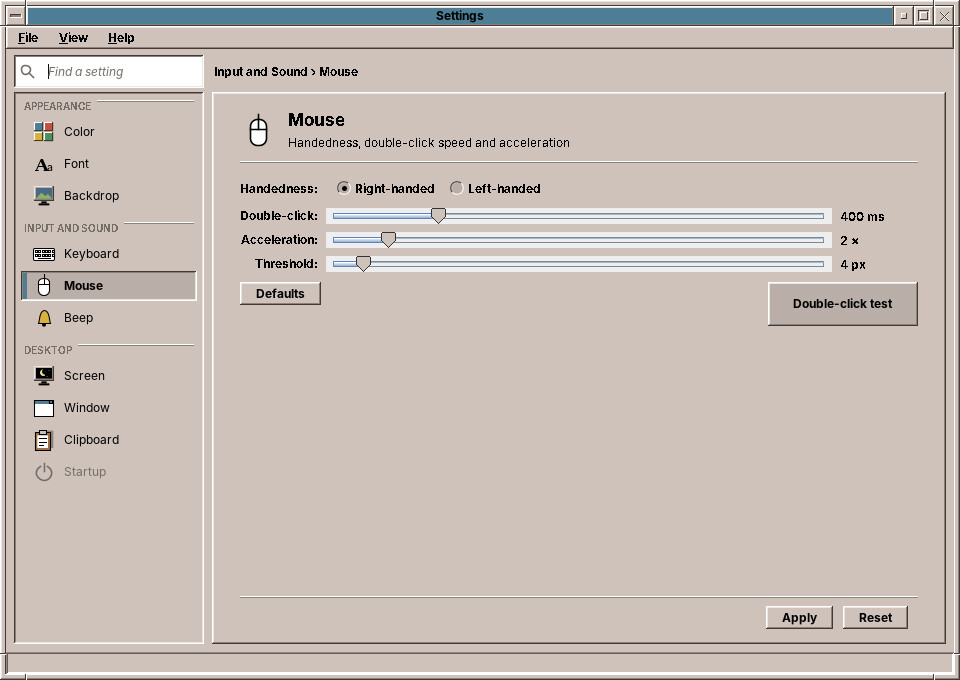
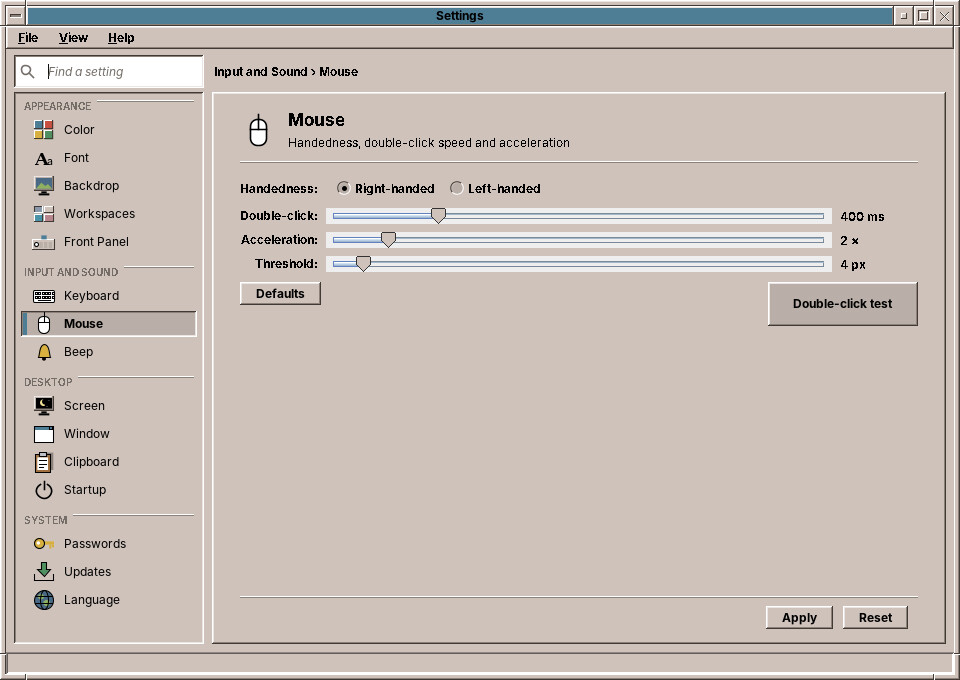
User's Handbook: the new Settings pages, and screenshots of them
Chapter 35 gets the Startup page; new chapters 37 (Workspaces and Front
Panel) and 38 (Passwords, Updates and Language). Chapter 30's table, the
session chapter's autostart, the settings files of chapter 56, the
cross-references in 22, 24, 25, 52 and 58 and appendix E follow. The
style scene shoots the new pages; shoot.sh starts a session bus and an
unlocked login keyring with a few demo passwords, so that the Passwords
page has something to show. README lists the Settings controls.

Claude-Session: https://claude.ai/code/session_01QrCZjM4my3MCn35am9WSxs

Changed region(s): [[0.0, 0.1853, 0.2188, 0.8956]]

diff --git a/docs/handbook/chapters/30-settings.md b/docs/handbook/chapters/30-settings.md
@@ -1,6 +1,6 @@
 # 30. Settings
 
-**Settings** is where you make the desktop your own: its colours, the size of its text, the picture behind the windows, how the keyboard, the mouse and the windows behave, the sound of the beep, the screen saver and the clipboard. It grew out of CDE's Style Manager, and it can still look like it (see *The compact view* below).
+**Settings** is where you make the desktop your own: its colours, the size of its text, the picture behind the windows, the names of the workspaces and the Front Panel, how the keyboard, the mouse and the windows behave, the sound of the beep, the screen saver, the clipboard and what starts at login, and, for the system, the keyring, the updates, the language and the time zone. It grew out of CDE's Style Manager, and it can still look like it (see *The compact view* below).
 
 ## Opening it
 
@@ -19,15 +19,20 @@ On the left, the controls are grouped by what they set. Click one, or move throu
 | Appearance | **Color** | The colour palette of the desktop and the icon theme | 31 |
 | | **Font** | The size of the text | 35 |
 | | **Backdrop** | The pattern, picture or colour behind the windows | 32 |
+| | **Workspaces** | The names of the four workspaces | 37 |
+| | **Front Panel** | The clock and the status cells | 37 |
 | Input and Sound | **Keyboard** | Key repeat and key click | 33 |
 | | **Mouse** | Left or right hand, double-click speed, acceleration | 33 |
 | | **Beep** | Volume, tone and length of the beep | 33 |
 | Desktop | **Screen** | Screen saver and screen lock | 34 |
 | | **Window** | How windows get the focus, come to the front and move | 35 |
 | | **Clipboard** | The clipboard history, and copies that outlive their program | 36 |
-| | **Startup** | What the session restores at login (planned) | 35 |
+| | **Startup** | Programs and desktop services started at login | 35 |
+| System | **Passwords** | The login keyring: lock, unlock, change its password | 38 |
+| | **Updates** | Automatic security updates, the updates waiting | 38 |
+| | **Language** | The language of the desktop and the time zone | 38 |
 
-*Startup* is grey: amadeOS does not have it yet.
+The pages of the *System* group change things for the whole computer or your keyring; some of them ask for the administrator's password on **Apply**.
 
 ## Apply and Reset
 
@@ -68,4 +73,4 @@ In that window, **OK** saves, applies and closes; **Apply** saves and applies an
     CDE's Style Manager, `dtstyle`, was a row of buttons, each opening a small window. That worked for a handful of controls; amadeOS has more to set, so the sidebar groups them and a search finds them. The compact view keeps the CDE row for those who prefer it.
 
 ??? hood "Under the hood"
-    Settings writes small text files to `~/.config/amadeos/`, one per control: `theme.conf` and `icon_theme.conf` (Color), `font.conf` (Font), `wallpaper.conf` (Backdrop), `input.conf` (Keyboard, Mouse and Beep), `screen.conf` (Screen), `window.conf` (Window) and `clipboard.conf` (Clipboard); its own view is kept in `settings.conf`. The desktop and the amadeOS applications watch these files, so a change reaches them at once. Chapter 56 lists all settings files.
+    Settings writes small text files to `~/.config/amadeos/`, one per control: `theme.conf` and `icon_theme.conf` (Color), `font.conf` (Font), `wallpaper.conf` (Backdrop), `input.conf` (Keyboard, Mouse and Beep), `screen.conf` (Screen), `window.conf` (Window), `clipboard.conf` (Clipboard), `workspaces.conf` (Workspaces), `panel.conf` (Front Panel), `startup.conf` (Startup) and `locale.conf` (Language); the programs started at login are in `~/.config/autostart/`; its own view is kept in `settings.conf`. The desktop and the amadeOS applications watch these files, so a change reaches them at once. Chapter 56 lists all settings files.

diff --git a/docs/handbook/chapters/55-session.md b/docs/handbook/chapters/55-session.md
@@ -7,12 +7,14 @@ The **session** is everything that runs between your login and your logout: the 
 After the greeter has checked your password (chapter 20), the session starts in this order:
 
 1. The **window manager**, which draws the window frames. If it ever crashes, the session starts it again, and your windows stay open.
-2. The **autostart scripts**, all at once: the keyboard and mouse settings, the password window of chapter 50, the clipboard manager, the screen saver, and your own.
+2. The **autostart scripts**, all at once: the keyboard and mouse settings, the password window of chapter 50, the clipboard manager, the screen saver, and your own, except those you switched off in *Settings → Startup*.
 3. The **Front Panel**. The session lasts as long as the panel: when you log out with *EXIT* (chapter 26), the panel ends, and the session with it.
 
 ## Starting programs at login
 
-Programs that should start at every login go into your own autostart folder, `~/.config/amadeos/autostart.d`. Each entry there is a small script, and every script that is executable runs at login, in the background.
+The simple way is the *Startup* page of Settings (chapter 35): **Add…** a program and click **Apply**. It keeps a desktop entry for each program in `~/.config/autostart/`, and the session starts them after the autostart scripts.
+
+For anything a desktop entry cannot do, such as waiting a moment or passing options, write a script into your own autostart folder, `~/.config/amadeos/autostart.d`. Every script there that is executable runs at login, in the background.
 
 For example, to open the Mailer at every login:
 
@@ -32,7 +34,7 @@ The `sleep 5` lets the panel appear first. To stop the program from starting, de
     The scripts run in the order of their names, but they do not wait for each other. A two-digit number at the front, as in `60-mailer`, keeps them sorted.
 
 !!! planned "Planned"
-    The *Startup* page of Settings (chapter 35) will manage the autostart and whether the session opens the windows of your last session again.
+    Opening the windows of your last session again at login (chapter 35).
 
 ## The session's settings
 
@@ -66,4 +68,4 @@ A single user can choose another one for themselves with `AUTOSTART_APP` in thei
     Today the CDE Front Panel is the only panel of amadeOS. The way to replace it is there so that other desktops can follow without changing the rest of the system.
 
 ??? hood "Under the hood"
-    The session is the shell script `/usr/bin/amadeos-session`; the greeter starts it as you, and it is also registered as `x-session-manager`, so `startx` starts the desktop too. The system's autostart scripts are in `/etc/amadeos/autostart.d`: `10-amadeos-input`, `30-amadeos-polkit-agent`, `40-amadeos-clipboard` and `50-amadeos-screen`. The language chosen at login is written to `~/.config/amadeos/locale.conf`.
+    The session is the shell script `/usr/bin/amadeos-session`; the greeter starts it as you, and it is also registered as `x-session-manager`, so `startx` starts the desktop too. The system's autostart scripts are in `/etc/amadeos/autostart.d`: `10-amadeos-input`, `30-amadeos-polkit-agent`, `40-amadeos-clipboard` and `50-amadeos-screen`; those named in `disabled=` of `~/.config/amadeos/startup.conf` are skipped. Afterwards `amadeos-session autostart` starts the desktop entries of `~/.config/autostart/`. The language chosen at login is written to `~/.config/amadeos/locale.conf`.

diff --git a/docs/handbook/chapters/38-passwords-updates-language.md b/docs/handbook/chapters/38-passwords-updates-language.md
@@ -1,0 +1,41 @@
+# 38. Passwords, Updates and Language
+
+The *System* group of Settings has the settings that reach below the desktop: the keyring with your passwords, the updates of the system, and the language and time zone.
+
+## Passwords
+
+![The Passwords page](images/38/settings-passwords.jpg)
+
+Programs such as the Mailer keep their passwords in your **login keyring** (chapter 58). The page shows whether the keyring is **unlocked** or **locked**, and how many passwords and keys it holds.
+
+| Button | What it does |
+|---|---|
+| **Lock Now** | Locks the keyring. Programs can no longer read their passwords; the next one that needs a password asks you again. |
+| **Unlock…** | Asks for the keyring's password and unlocks it. |
+| **Change Password…** | Asks for the current password and a new one, twice. |
+
+The login screen unlocks the keyring with your login password, as long as both passwords are the same. When you change your login password, change the keyring's to the same one here; otherwise the keyring stays locked after the next login, and you unlock it on this page.
+
+If the page says that no keyring is running, the session was started without GNOME Keyring; programs then ask for their passwords each time.
+
+## Updates
+
+![The Updates page](images/38/settings-updates.jpg)
+
+**Install security updates automatically** is the same switch as *Software → Settings…* (chapter 52): turned on, amadeOS installs security updates once a day in the background, and other updates wait for you. Clicking **Apply** after changing it asks for the administrator's password.
+
+Below, the page shows when the package lists were last checked and how many updates are waiting, and how many of them are security updates. **Open Software…** opens Software at its *Updates* tab, where you install them.
+
+## Language
+
+![The Language page](images/38/settings-language.jpg)
+
+**Language of the desktop** is the language of the menus and windows: English, Deutsch, Français, Español or Italiano. It is the same choice as the language button of the Front Panel and the login screen (chapter 25). Programs started after **Apply** speak the new language; the Front Panel, the window manager and the terminals follow at the next login.
+
+**Time zone** sets the time zone of the computer's clock. The time zone holds for all users of the computer, so **Apply** asks for the administrator's password.
+
+!!! planned "Planned: formats of their own"
+    Dates, times and numbers follow the language of the desktop. Choosing their format separately, for example English texts with German dates, is planned.
+
+??? hood "Under the hood"
+    The Passwords page talks to the keyring over the freedesktop.org Secret Service on the session bus; locking and unlocking use GNOME Keyring's own interface for its master password. The Updates page reads the same state as the updates cell and writes the automatic setting through `/usr/libexec/amadeos-packages` and `pkexec`. The language is written to `~/.config/amadeos/locale.conf`; the time zone is set with `timedatectl set-timezone`, which polkit allows to administrators.

diff --git a/README.md b/README.md
@@ -87,7 +87,7 @@ settings). This repository holds the live image: its package list and configurat
 | **Front panel** | A CDE-style dock with clock, calendar, workspace switcher and drawers that list installed applications from their `.desktop` files, among them a Games drawer with the amade games (Mines, Solitaire, Paddle, ..., Town). The Help drawer opens the amadeOS User's Handbook in Firefox. |
 | **Logs** | One log per application in `~/.cache/amadeos/logs` (`firefox-esr.log`, `amade-files.log`, ...), written by the panel when it starts a program, next to `session.log` and `wm.log` from `amadeos-session`. *Session Diagnostics & Logs* in the Tools drawer (the program `amadeos-logviewer`) shows one of them at a time, chosen from a list, with the display manager's logs from `/var/log` and the system journal of this boot (the live user is in `systemd-journal`); *Follow* reloads every two seconds. |
 | **Language** | English, Deutsch, Français, Español, Italiano. Chosen in the login greeter (*Language*, preselected with the user's last choice) for the whole session, or with the language button under the lock in the front panel. Both write `~/.config/amadeos/locale.conf`; applications built on amade-commons start in that language, the panel and terminals follow at the next login (`LANG`). An application's own *Settings* can override it. |
-| **Settings** (`settings`, formerly the Style Manager) | The controls of CDE's dtstyle in one window with a sidebar and a search, or as CDE's compact row (View > Compact). Color (palette and icon theme), Font, Backdrop, Keyboard, Mouse, Beep, Screen, Window and Clipboard work; Startup is shown but not yet available. |
+| **Settings** (`settings`, formerly the Style Manager) | The controls of CDE's dtstyle in one window with a sidebar and a search, or as CDE's compact row (View > Compact). Color (palette and icon theme), Font, Backdrop, Workspaces (names), Front Panel (clock, status cells), Keyboard, Mouse, Beep, Screen, Window, Clipboard, Startup (programs in `~/.config/autostart`, optional desktop services), Passwords (login keyring), Updates and Language (with the time zone). |
 | **Icons** | The NsCDE icon theme is the default (package `nscde-icon-theme`, built by `scripts/package-nscde-icons.sh`, included in the image automatically). Any other installed Freedesktop icon theme can be chosen in the Settings. |
 | **Backdrops** | The original CDE pattern backdrops (Pebbles, Concave, BrickWall, Toronto, ...) come as the separate package `amadeos-backdrops-cde` (built by `scripts/package-cde-backdrops.sh`, installed to `/usr/share/amadeos/backdrops/cde`) and take their shades from the chosen backdrop color like in dtstyle. Own `.pm`/`.bm` files (XPM/XBM) are found in `~/.dt/backdrops` and `~/.config/amadeos/backdrops`, pictures (PNG/JPEG) as well. |
 | **Input settings** (`input`) | Keyboard repeat and click, mouse handedness, double-click time and acceleration, and the bell; stored in `~/.config/amadeos/input.conf` and applied with `xset`, `xmodmap` and `xrdb` at login (`/etc/amadeos/autostart.d/10-amadeos-input`) and on Apply. |

diff --git a/docs/handbook/chapters/35-font-window-startup.md b/docs/handbook/chapters/35-font-window-startup.md
@@ -1,6 +1,6 @@
 # 35. Font, Window and Startup
 
-**Font** sets the size of the text, **Window** how the windows behave. **Startup**, the third control that CDE's Style Manager had here, is still to come.
+**Font** sets the size of the text, **Window** how the windows behave, and **Startup** what starts when you log in: the three controls that CDE's Style Manager had for this.
 
 ## Font
 
@@ -29,8 +29,16 @@ A click on a window's title bar always brings it to the front, whatever *Raise w
 !!! switching "Coming from Windows or macOS"
     The defaults behave like Windows and macOS: click into a window and it comes to the front with the keyboard. *Point in window to make active* is the classic behaviour of many Unix desktops; try it with *Raise window* switched off, so that a window can be typed into while another one covers part of it.
 
-!!! planned "Planned: Startup"
-    What the desktop does when you log in and out: whether it opens the windows of your last session again, or always starts with an empty desktop. Until then, programs that should start at every login can be added to the autostart (chapter 55).
+## Startup
+
+![The Startup page](images/35/settings-startup.jpg)
+
+**Programs Started at Login** lists the programs that start each time you log in, after the desktop is ready. **Add…** offers the installed programs; choose one, for example the Mailer, and click **Apply**. **Remove** takes the selected program off the list. A program that has been uninstalled since is skipped at login.
+
+**Desktop Services** are the parts of the desktop that the session starts at login (chapter 55). Clear a check box to leave a service out, for example *Clipboard history* if you do not want one. The grey services are needed by the desktop and always run. Changes take effect at the next login.
+
+!!! planned "Planned: resuming the last session"
+    Opening the windows of your last session again at login, as CDE could. Until then the desktop starts empty, with the programs of the list above.
 
 ??? hood "Under the hood"
-    The font size is stored as a number from 1 to 7 in `~/.config/amadeos/font.conf`; programs built on *amade-commons* watch the file and scale all the fonts of their Motif look by the same factor, from 75 % to 150 %. The window settings are in `~/.config/amadeos/window.conf` (`focus=click` or `pointer`, `raise.when.active`, `move.contents`), which the window manager watches.
+    The font size is stored as a number from 1 to 7 in `~/.config/amadeos/font.conf`; programs built on *amade-commons* watch the file and scale all the fonts of their Motif look by the same factor, from 75 % to 150 %. The window settings are in `~/.config/amadeos/window.conf` (`focus=click` or `pointer`, `raise.when.active`, `move.contents`), which the window manager watches. Startup keeps a desktop entry (a `.desktop` file) for each program in `~/.config/autostart/`, the folder other desktops use for the same purpose, and the services you switched off in `~/.config/amadeos/startup.conf` (`disabled=40-amadeos-clipboard`).

diff --git a/docs/handbook/chapters/37-workspaces-front-panel.md b/docs/handbook/chapters/37-workspaces-front-panel.md
@@ -1,0 +1,37 @@
+# 37. Workspaces and Front Panel
+
+Two pages of the *Appearance* group set up the parts of the desktop you see all day: **Workspaces** names the four workspaces, **Front Panel** chooses the clock and the status cells.
+
+## Workspaces
+
+![The Workspaces page](images/37/settings-workspaces.jpg)
+
+The four fields hold the names of the workspaces, *One* to *Four* on a new account. Type a name that says what the workspace is for, such as *Mail* or *Letters*, and click **Apply**: the workspace buttons of the Front Panel and the Workspace Menu show the new names at once. A name has at most 24 characters. Empty a field, or type its old default back, and the workspace is called *One*, *Two* and so on again.
+
+This is the same name you get with a click on the current workspace button in the Front Panel (chapter 24); both ways change the same setting.
+
+**Backdrops…** goes to the Backdrop page (chapter 32), where each workspace can get a picture of its own.
+
+!!! planned "Planned: more or fewer workspaces"
+    amadeOS has four workspaces, as CDE had by default. Choosing another number is planned.
+
+## Front Panel
+
+![The Front Panel page](images/37/settings-panel.jpg)
+
+| Setting | What it does | Default |
+|---|---|---|
+| **Analog** | The clock at the left end of the Front Panel is a dial with hands. | on |
+| **Digital** | The clock shows the time and the date in figures. | off |
+| **Network** | The network cell in the status slot at the right end of the Front Panel (chapter 27). | on |
+| **Software updates** | The updates cell, which appears only while updates are waiting (chapter 52). | on |
+
+The Front Panel follows a change as soon as you click **Apply**. A right click on the clock still switches between analog and digital, and the page shows that choice the next time you open it.
+
+The drawers of the Front Panel need no setting: they fill themselves with the programs that are installed (chapter 22).
+
+!!! planned "Planned: the Front Panel at another edge"
+    The Front Panel sits at the bottom of the screen, as in CDE. Putting it at the top or a side is planned.
+
+??? hood "Under the hood"
+    The names are in `~/.config/amadeos/workspaces.conf` (`workspace.2.name=Letters`), the Front Panel settings in `~/.config/amadeos/panel.conf` (`clock=analog` or `digital`, `cell.network`, `cell.updates`). The Front Panel watches both files; it publishes the workspace names to the window manager in the root window's `_NET_DESKTOP_NAMES` property.

diff --git a/docs/handbook/chapters/56-settings-reference.md b/docs/handbook/chapters/56-settings-reference.md
@@ -23,6 +23,9 @@ Your settings are in your home folder, in folders whose names start with a dot a
 | `screen.conf` | Settings: Screen | 34 |
 | `window.conf` | Settings: Window | 35 |
 | `clipboard.conf` | Settings: Clipboard | 36 |
+| `workspaces.conf` | Settings: Workspaces, and renaming in the Front Panel | 24, 37 |
+| `panel.conf` | Settings: Front Panel, and the clock's right-click menu | 37 |
+| `startup.conf` | Settings: Startup (the desktop services switched off) | 35 |
 | `settings.conf` | Settings: the sidebar or the compact view | 30 |
 | `locale.conf` | The greeter and the language button | 25 |
 | `session.conf` | You, by hand | 55 |
@@ -31,6 +34,8 @@ Your settings are in your home folder, in folders whose names start with a dot a
 ### The applications
 
 The amade applications keep their settings in a folder of their own below `~/.config/amadeos/` (the Mailer in `~/.config/amadeos/mail`, for example) and their data below `~/.local/share/amadeos/` (the scores of the games in `~/.local/share/amadeos/games/<game>/`). Passwords, such as those of mail accounts, are not in these files but in your login keyring (chapter 58).
+
+The programs that start at login are desktop entries in `~/.config/autostart/` (Settings: Startup, chapter 35); your own login scripts are in `~/.config/amadeos/autostart.d/` (chapter 55).
 
 Firefox keeps its profile in `~/.mozilla/firefox/`, LibreOffice in `~/.config/libreoffice/`.
 

diff --git a/docs/handbook/chapters/24-workspaces-and-menu.md b/docs/handbook/chapters/24-workspaces-and-menu.md
@@ -22,7 +22,7 @@ A name such as *Mail* or *Letters* tells you better than *Two* what a workspace 
 
 A double click on any workspace button does both clicks at once. You can also click the **right mouse button** on a workspace button and choose **Rename**.
 
-++escape++ keeps the old name. An empty name gives the workspace back its own name, *One* to *Four* in the language of the desktop. A name can be up to 24 characters long; when it is wider than the button, the button shows its beginning with "…", and the tooltip shows it in full. The Workspace Menu (below) and the Backdrop page of Settings use the new names too.
+++escape++ keeps the old name. An empty name gives the workspace back its own name, *One* to *Four* in the language of the desktop. A name can be up to 24 characters long; when it is wider than the button, the button shows its beginning with "…", and the tooltip shows it in full. The Workspace Menu (below) and the Backdrop page of Settings use the new names too. The *Workspaces* page of Settings (chapter 37) renames all four in one place.
 
 !!! cde "CDE heritage"
     CDE gave every workspace its own colour from the palette, so you always see where you are; amadeOS keeps that. Renaming works as in CDE: click the current workspace's button, type, press Return. Each workspace can also have its own backdrop, as in CDE. CDE could also change the number of workspaces; amadeOS has four for now.

diff --git a/docs/handbook/chapters/58-security-and-privacy.md b/docs/handbook/chapters/58-security-and-privacy.md
@@ -20,7 +20,7 @@ What the computer does contact by itself: the Debian mirror once a day to look f
 | WLAN passwords | In the network settings of the system, readable only by administrators (chapter 54). |
 | Passwords saved in Firefox | In Firefox's own store; protect it with a *Primary Password* in Firefox's settings. |
 
-The login keyring is opened when you log in, with the same password, so programs can use their passwords without asking you again. It is closed when you log out. In a terminal, `secret-tool search --all service amade-mail` shows what the Mailer has stored.
+The login keyring is opened when you log in, with the same password, so programs can use their passwords without asking you again. It is closed when you log out. *Settings → Passwords* (chapter 38) locks it, unlocks it and changes its password. In a terminal, `secret-tool search --all service amade-mail` shows what the Mailer has stored.
 
 !!! planned "Planned"
     A keyring service of amadeOS's own, written in Java like the rest of the desktop, with a password window in the style of the desktop, to take GNOME Keyring's place (ROADMAP milestone M12).

diff --git a/docs/handbook/chapters/52-updates.md b/docs/handbook/chapters/52-updates.md
@@ -37,7 +37,7 @@ Most updates take effect when you next start the program. An update of the Linux
 
 ## Automatic security updates
 
-**Software → Settings…** (or *Settings…* in the updates cell) has one switch: **Install security updates automatically**. Turned on, amadeOS installs security updates once a day in the background, without asking. Other updates still wait for you.
+**Software → Settings…** (or *Settings…* in the updates cell, or the *Updates* page of Settings, chapter 38) has one switch: **Install security updates automatically**. Turned on, amadeOS installs security updates once a day in the background, without asking. Other updates still wait for you.
 
 It is off at first, because amadeOS changes nothing without you. Turn it on for a computer that others use, or one you do not look after every week.
 

diff --git a/docs/handbook/chapters/e-what-is-planned.md b/docs/handbook/chapters/e-what-is-planned.md
@@ -21,7 +21,10 @@ The *Planned* boxes of this book, collected in one place, sorted by where they b
 | Keys for the windows, such as ++alt+tab++ | 21, A |
 | Moving a window to another workspace, or showing it on all of them | 24 |
 | Cells for the sound volume, the battery and Bluetooth in the Front Panel | 22, 27 |
-| The *Startup* page of Settings | 35, 55 |
+| Opening the windows of the last session again at login | 35, 55 |
+| More or fewer than four workspaces | 37 |
+| The Front Panel at the top or a side of the screen | 37 |
+| Formats of dates and numbers apart from the language | 38 |
 | A *Users* program for accounts | 53 |
 | A network settings window for fixed addresses, hidden networks and VPNs | 54 |
 | More panels than the CDE Front Panel | 55 |

diff --git a/docs/handbook/chapters/25-language.md b/docs/handbook/chapters/25-language.md
@@ -8,6 +8,8 @@ amadeOS speaks five languages: **English**, **Deutsch**, **Français**, **Españ
 
 **In the Front Panel.** The language button under the padlock, in the middle of the panel, shows the current language as a code such as *EN* or *DE*. Click it and choose another language from the menu. Programs you start from then on use the new language; the Front Panel itself and the terminals follow at the next login.
 
+**In Settings.** The *Language* page (chapter 38) offers the same choice, next to the time zone of the computer.
+
 **In a single application.** Many amadeOS applications have a language setting of their own in their *Settings* or *Options*. It overrides the desktop language for that application only.
 
 !!! tip "Already open windows"
